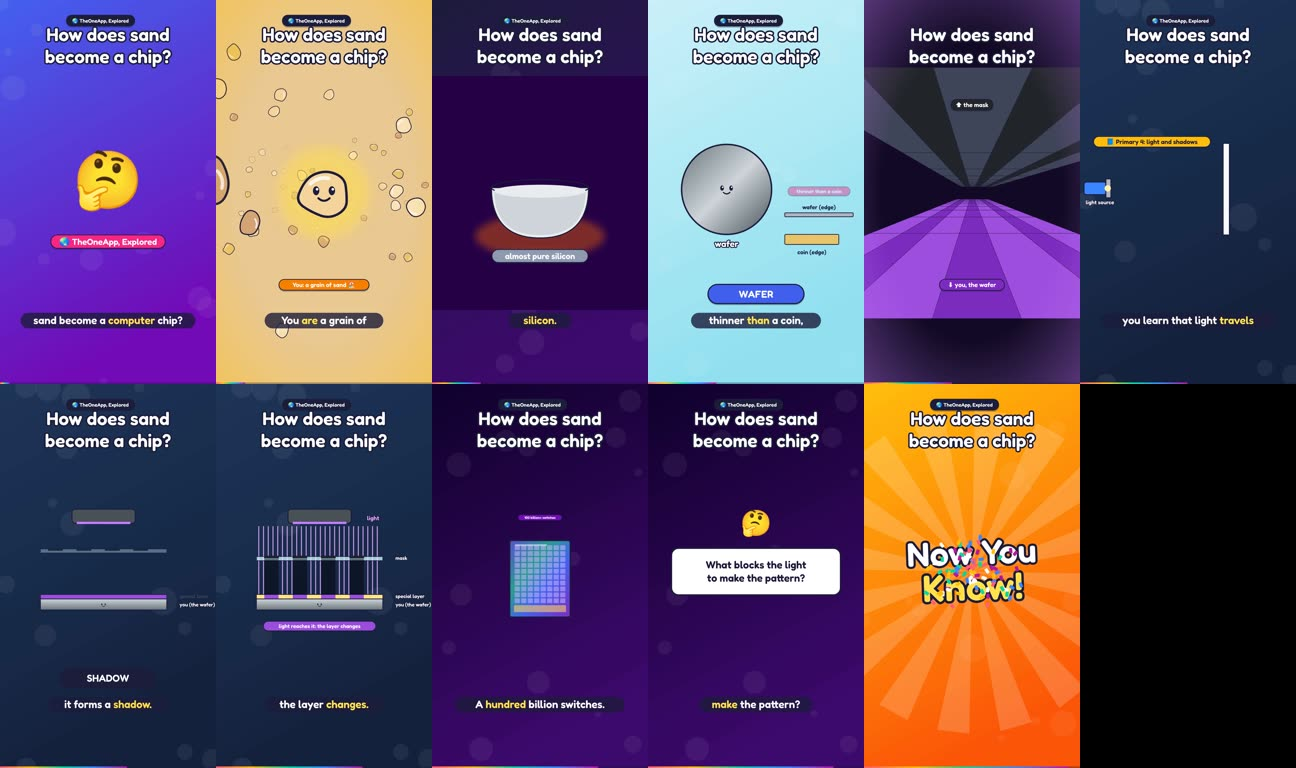
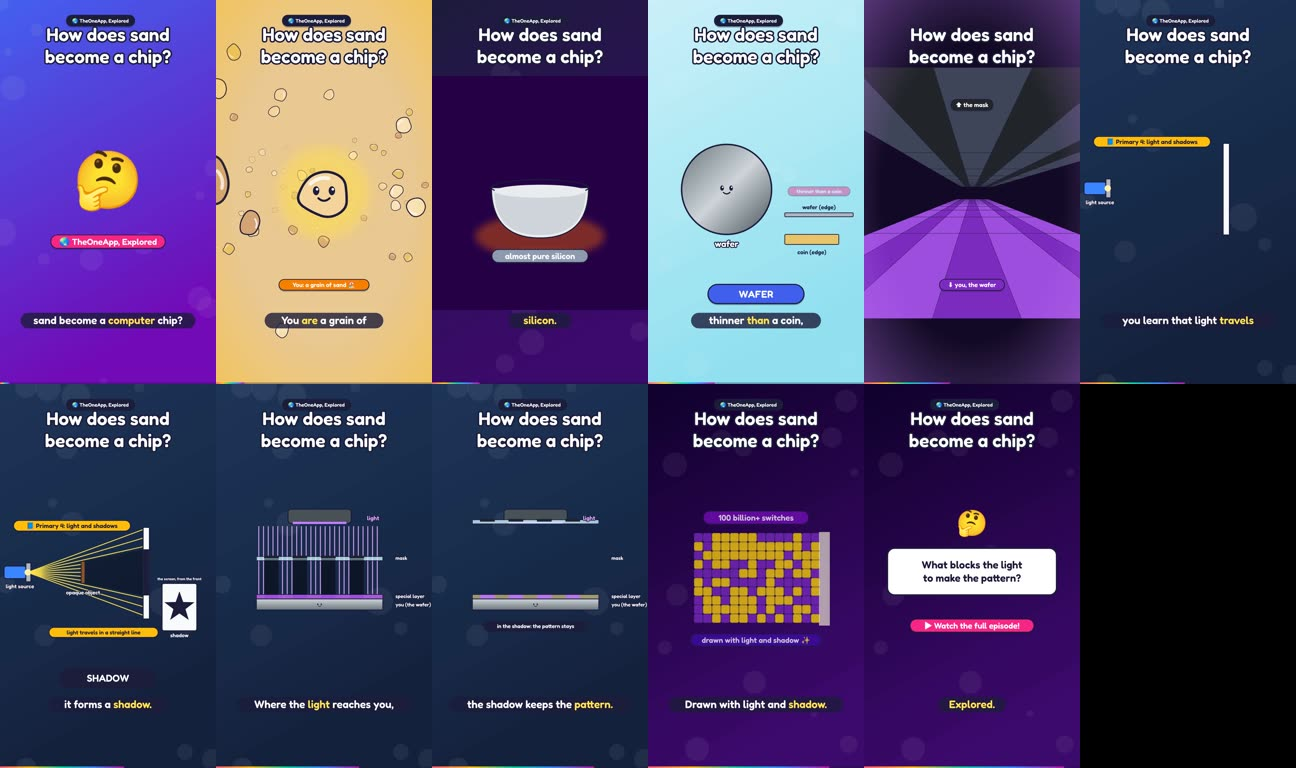
Explored EP11 rendered (4:57.9, Shorts 56.6 s and 52.5 s; not uploaded): checks, contact sheets, srt, state notes
Claude-Session: https://claude.ai/code/session_017vcscXTweEdXk7zMTDrzTD

Changed region(s): [[0.1852, 0.5, 0.8333, 1.0], [0.0, 0.6562, 0.1543, 0.8438]]

diff --git a/production/workspace/sau/ep11/STATE.md b/production/workspace/sau/ep11/STATE.md
@@ -22,7 +22,14 @@ Upload (only after the teacher's "go"): `YT_TOKEN_FILE=.yt_token.json python3 yo
 
 ## Lengths and checks
 
-LENGTHS_HERE
+| Video | Length | Frames (30 fps) | Decode check | Loudness | Size |
+|---|---|---|---|---|---|
+| ep11.mp4 (1920x1080) | 4:57.9 (297.9 s) | 8936 = ceil(END x 30) | `ffmpeg -v error ... -f null -`: no errors | -16.5 LUFS | 53 MB |
+| short1.mp4 (1080x1920) | 56.6 s | 1698 = expected | no errors | -16.5 LUFS | 11 MB |
+| short2.mp4 (1080x1920) | 52.5 s | 1575 = expected | no errors | -16.4 LUFS | 8.7 MB |
+
+Stills checked in three rounds of fixes (layout clear of the tag and captions, the shadow diagram redrawn, the Short 1 shadow diagram
+refitted to the vertical frame, a 1.3 s hold after Short 1's P4 line and 1.5 s in the episode). Contact sheets: `sheet_*.jpg`.
 
 ## Running order (episode)
 
@@ -100,4 +107,16 @@ question "Which finishes first: one friend with twenty sums, or twenty friends w
 
 ## Weak points / to watch
 
-WEAK_HERE
+- The hook's wording changed for a fact (see "Changes" 1): the teacher must OK it.
+- "Its founder": Huang is one of three co-founders. "Lenses shrink the pattern again and again": one projection lens column (many lens
+  elements) shrinks about 4 times. Both are approved words, left as they are; flagged for the teacher.
+- Clean room vs operating theatre: true by ISO classes, but no single source says it directly (to confirm before approving).
+- NBC News could not be found; the 8-K text and CBS / NPR / CNBC agree (11 days, 12 -> 23 Nov). sec.gov and nvidianews.nvidia.com do not open
+  from the cloud, so the 8-K and Nvidia's Blackwell page were read through search results only.
+- No "Welcome / Today you'll learn" card (the approved script has none; adding it would pass 5 minutes).
+- Pictures that are simple on purpose: the transistor is a block drawing (two ends, a channel, a gate), not a real cross-section; the
+  data-centre racks are icons; the AI "cat or dog" uses emoji on cards; the "1 in 10" row uses ten chip icons.
+- The globe in the news and map scenes is drawn from Natural Earth 1:50m country outlines (internal borders show faintly); the Singapore
+  map uses the 1:10m coast. Santa Clara, Hsinchu, Woodlands and Tampines are at their real longitude and latitude (geo11.py).
+- The heat scene's change from the racks to the hotter/colder diagram is a 0.3 s cross-fade, so one contact-sheet frame shows both.
+- Short 1's question "What blocks the light to make the pattern?" is answered in its own pictures (the mask); it is a recap question.
